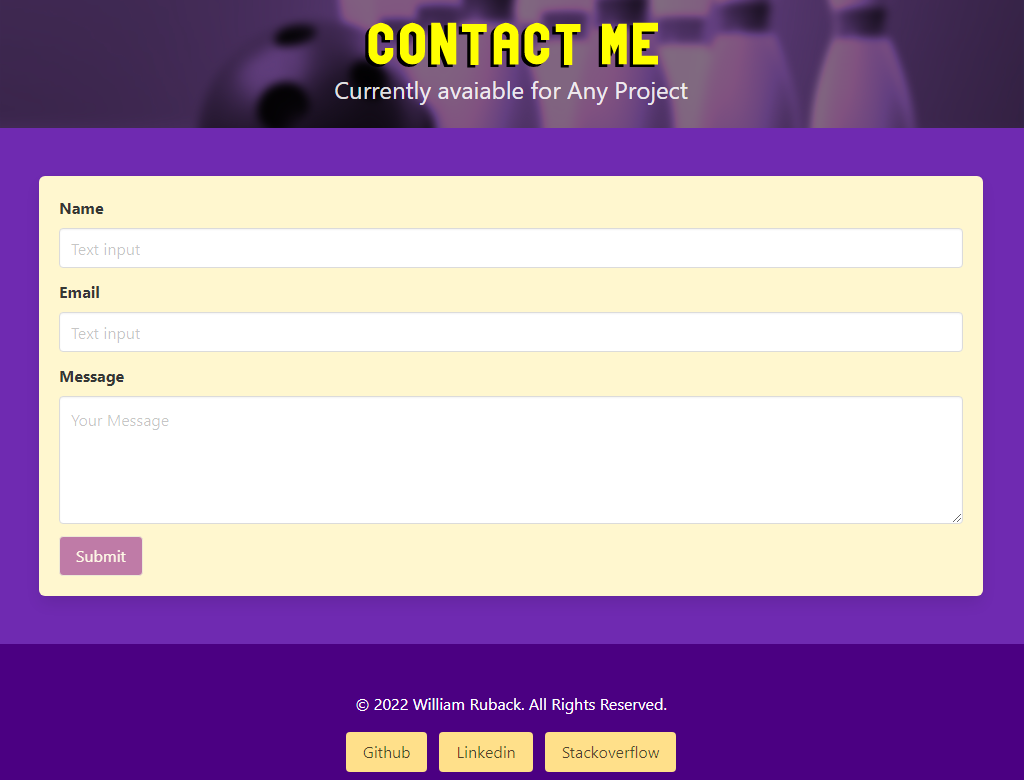
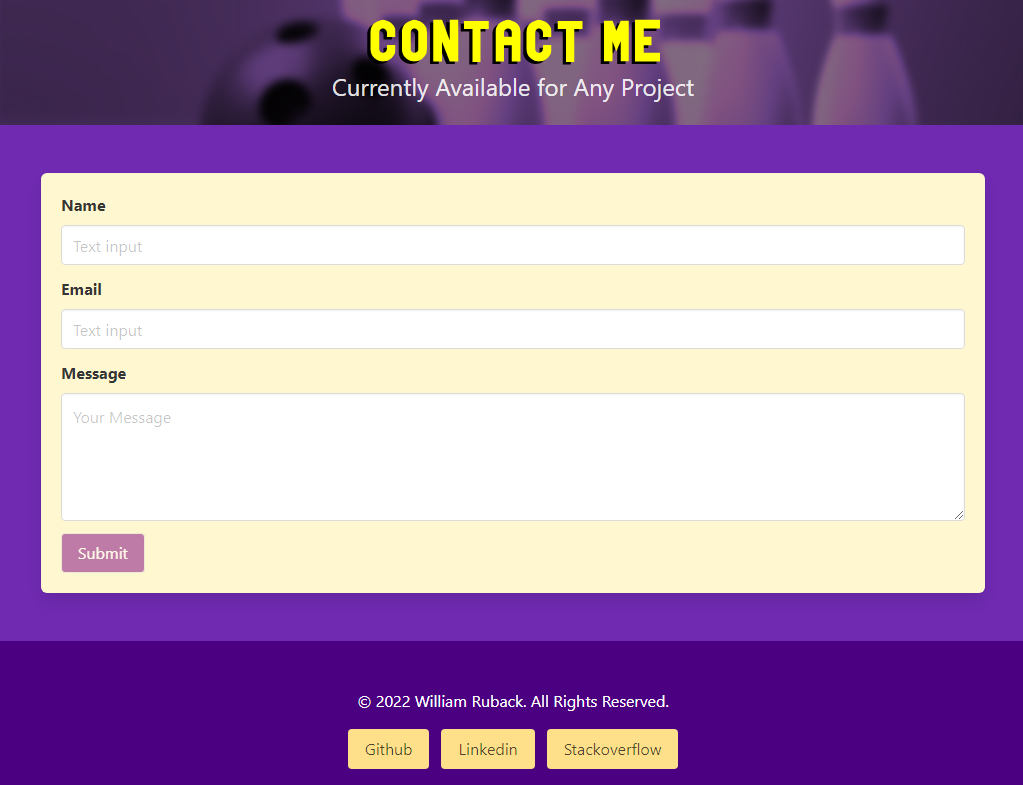
Fixed error in screenshot.

diff --git a/src/components/Resume.js b/src/components/Resume.js
@@ -1,5 +1,4 @@
 import React from 'react';
-import resumeIMG from '../images/Resume.png';
 
 export default function Resume({ heroImg, titleIMG }) {
   return (<>
@@ -18,7 +17,7 @@ export default function Resume({ heroImg, titleIMG }) {
       <div class="hero-body has-text-centered has-text-white" style={{
         zIndex: 1
       }}>
-        <img src={resumeIMG} alt="William Ruback" />
+        <img src={titleIMG} alt="William Ruback" />
         <p className="subtitle is-4 has-text-warning is-underlined">
           <a href='https://drive.google.com/file/d/1Cl_1MgX_N5v5Ma80VtvC89GNuSoVQApk/view?usp=sharing' target="_blank" rel="noreferrer noopener">Download Here</a>
         </p>
